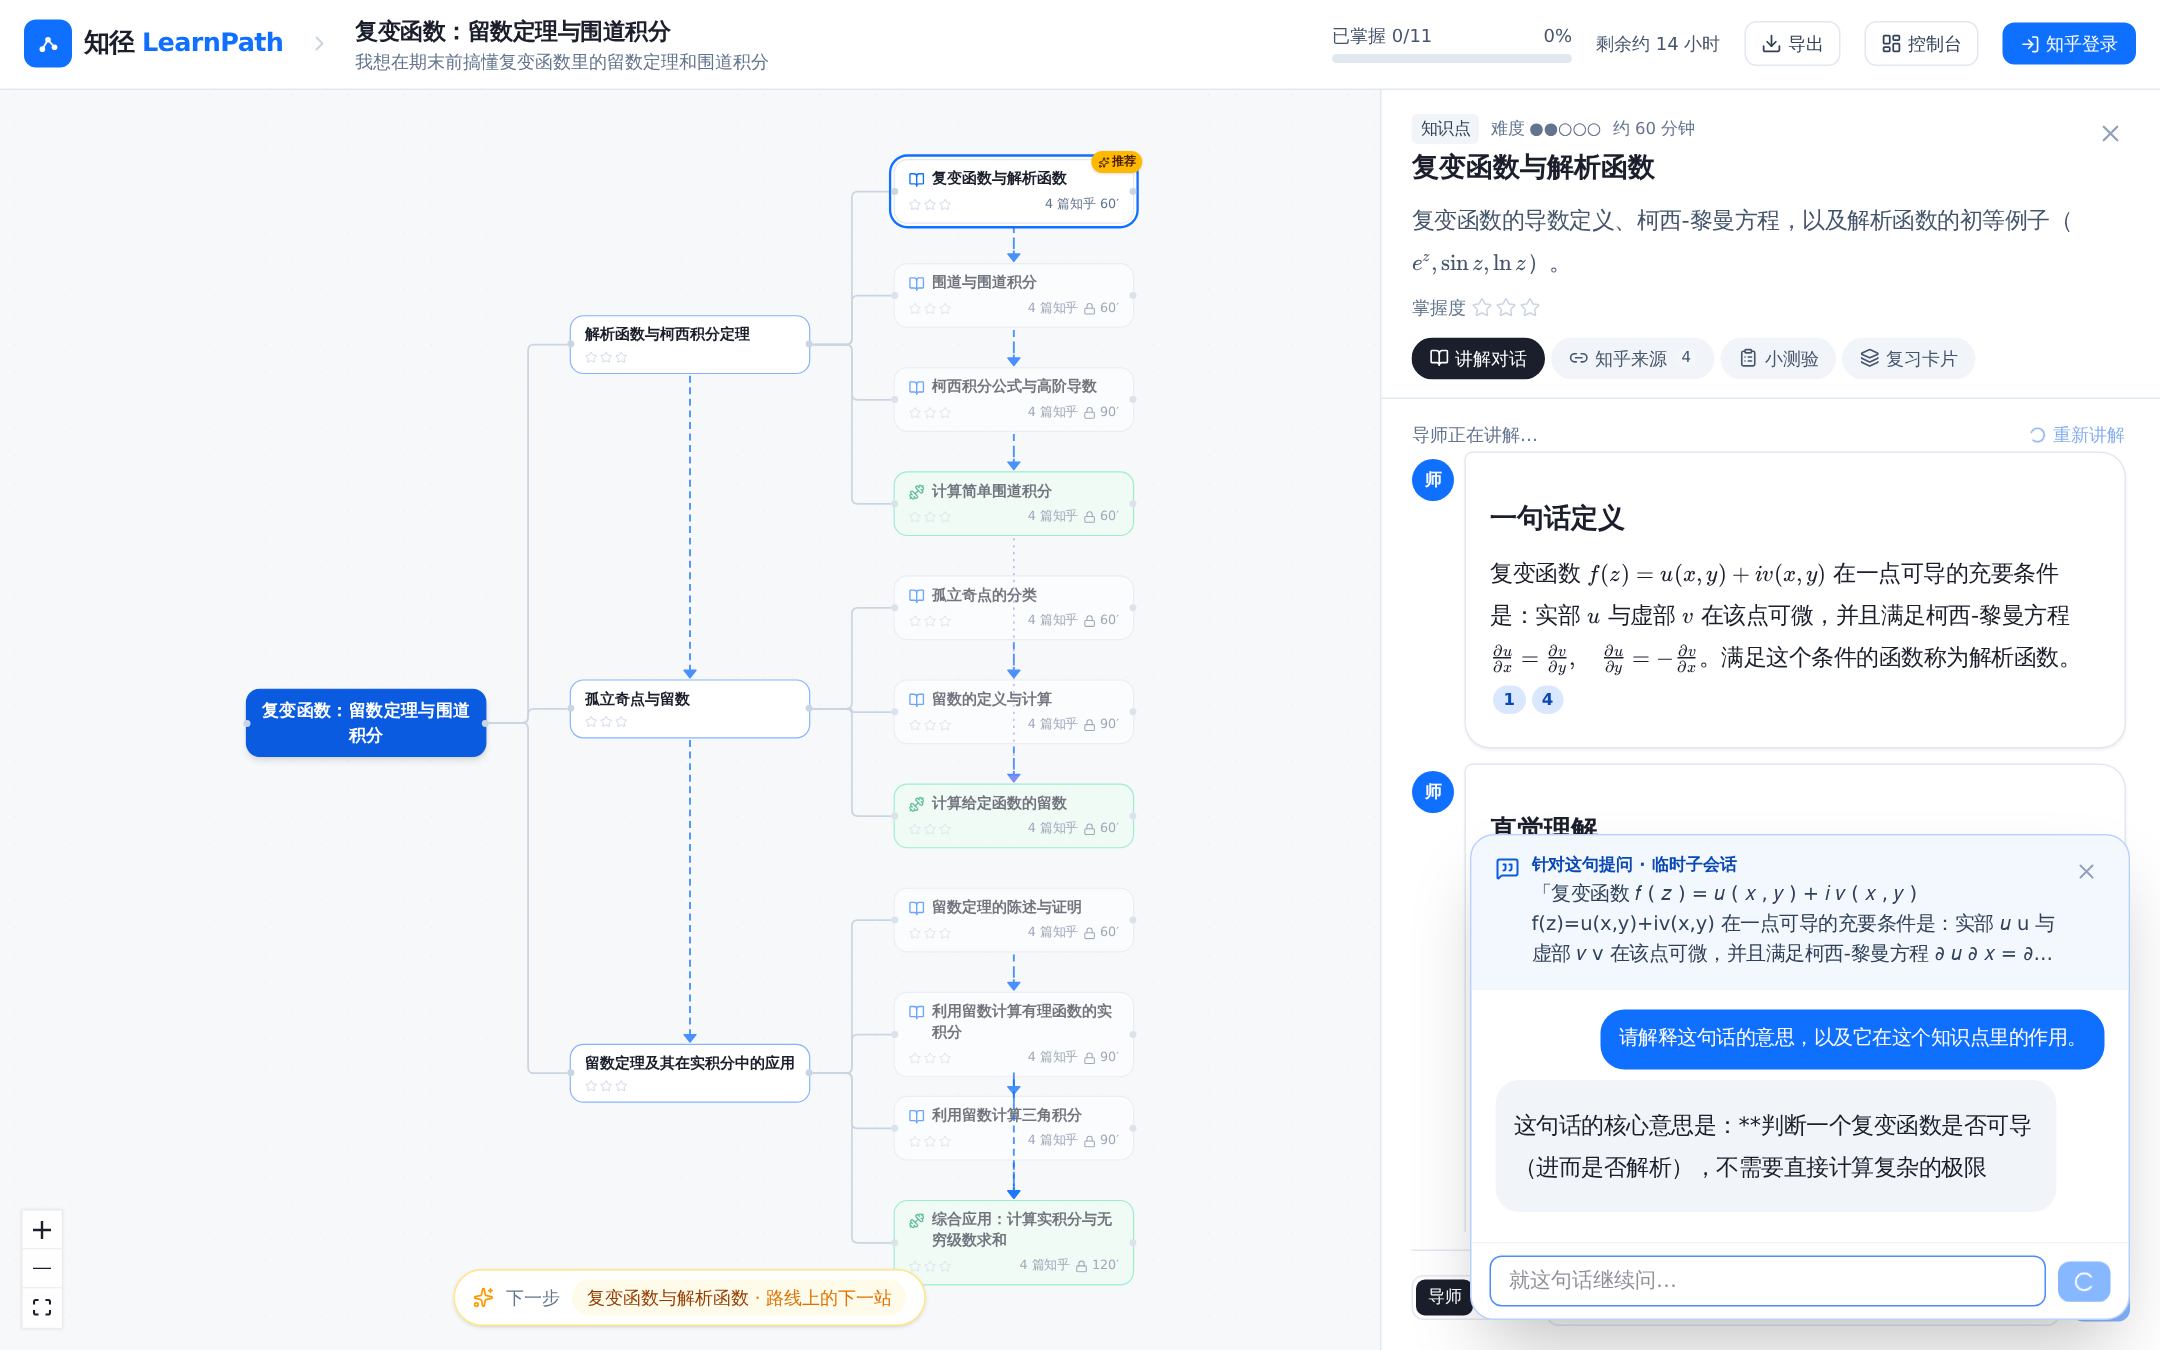
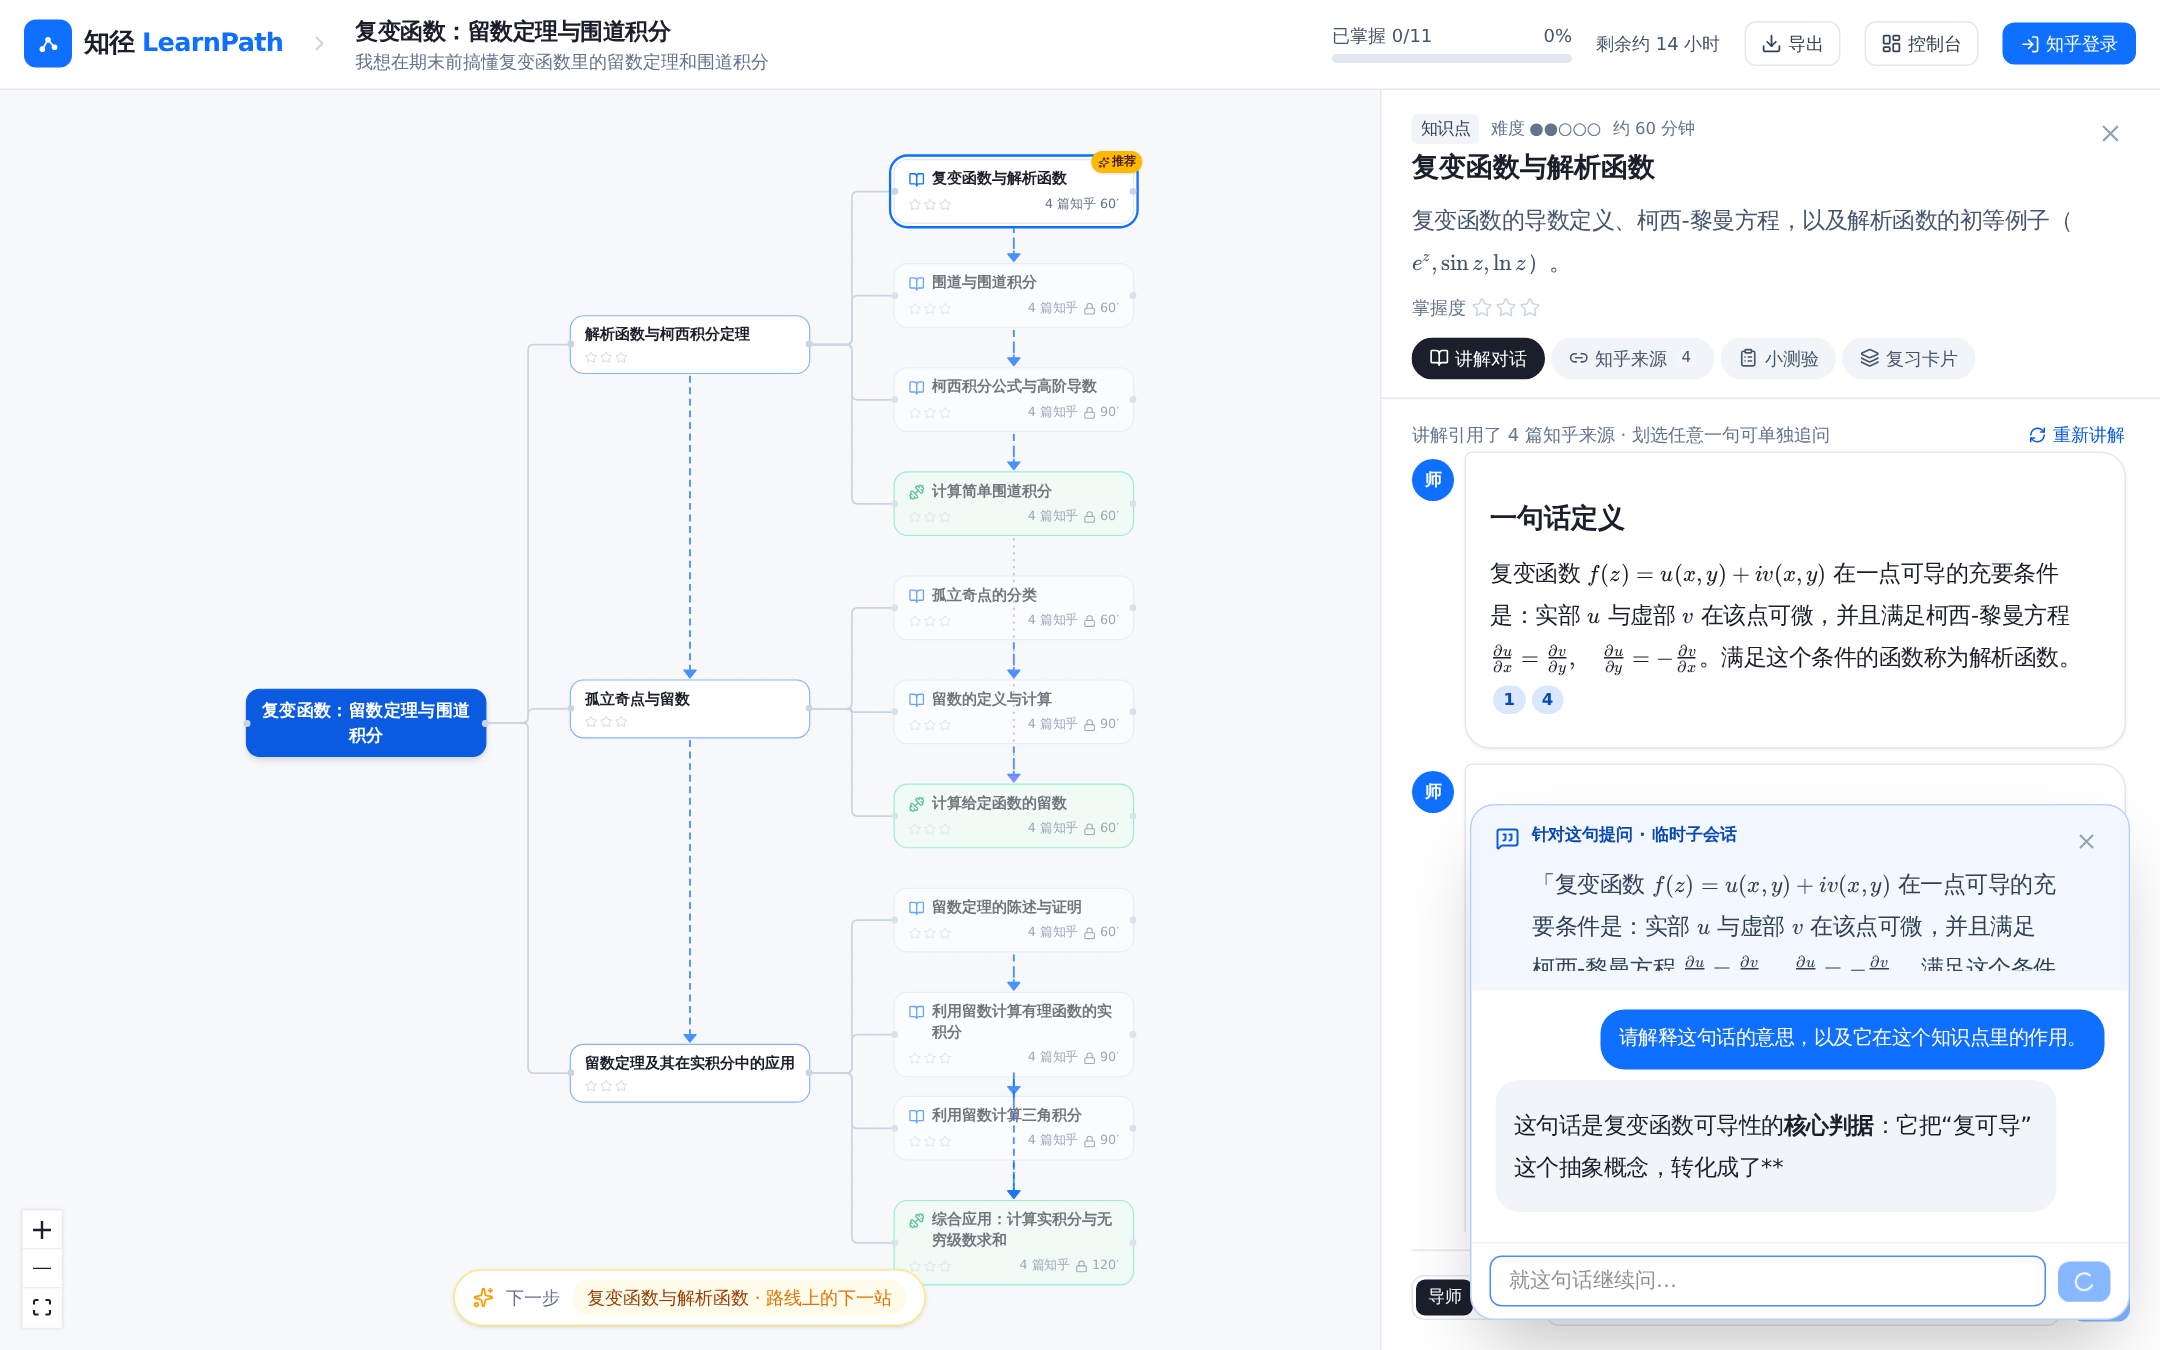
划选引用：从 KaTeX 还原 TeX 源码，避免公式重复；子会话引用句公式渲染

diff --git a/frontend/src/components/panel/ConversationTab.tsx b/frontend/src/components/panel/ConversationTab.tsx
@@ -18,6 +18,18 @@ interface SelectionState {
   y: number;
 }
 
+/** Turn a DOM selection into clean text: KaTeX renders MathML + HTML twice, so replace each formula with its TeX source. */
+function selectionToText(range: Range): string {
+  const fragment = range.cloneContents();
+  fragment.querySelectorAll(".katex-display, .katex").forEach((el) => {
+    if (el.parentElement?.closest(".katex")) return; // nested: handled by the outer element
+    const tex = el.querySelector('annotation[encoding="application/x-tex"]')?.textContent?.trim() ?? "";
+    const display = el.classList.contains("katex-display");
+    el.replaceWith(document.createTextNode(tex ? (display ? ` $$${tex}$$ ` : ` $${tex}$ `) : ""));
+  });
+  return (fragment.textContent ?? "").replace(/\s+/g, " ").trim();
+}
+
 /**
  * 讲解 = 对话：导师分段发言（流式），学习者在同一线程继续追问；划选任意一句可弹出「解释这句 / 提问」，
  * 在叠加的悬浮窗里开一个临时子会话（独立线程，不跳转）。
@@ -107,8 +119,12 @@ export function ConversationTab({ node, onLearned }: { node: NodeDetail; onLearn
   const onMouseUp = useCallback(() => {
     window.setTimeout(() => {
       const sel = window.getSelection();
-      const text = sel?.toString().replace(/\s+/g, " ").trim() ?? "";
-      if (!sel || sel.isCollapsed || text.length < 4 || !containerRef.current || !containerRef.current.contains(sel.anchorNode)) {
+      if (!sel || sel.isCollapsed || sel.rangeCount === 0 || !containerRef.current || !containerRef.current.contains(sel.anchorNode)) {
+        setSelection(null);
+        return;
+      }
+      const text = selectionToText(sel.getRangeAt(0));
+      if (text.length < 4) {
         setSelection(null);
         return;
       }

diff --git a/frontend/src/components/panel/SubChatOverlay.tsx b/frontend/src/components/panel/SubChatOverlay.tsx
@@ -31,7 +31,9 @@ export function SubChatOverlay({ nodeId, threadId, quote, citations, autoAsk, on
         <MessageSquareQuote size={16} className="mt-0.5 shrink-0 text-brand-600" />
         <div className="min-w-0 flex-1">
           <div className="text-[11px] font-semibold uppercase tracking-wide text-brand-700">针对这句提问 · 临时子会话</div>
-          <div className="mt-0.5 line-clamp-3 text-[13px] leading-5 text-slate-700">「{quote}」</div>
+          <div className="mt-0.5 max-h-20 overflow-y-auto text-[13px] leading-5 text-slate-700 [&_p]:my-0 [&_p]:text-[13px]">
+            <Markdown text={`「${quote}」`} citations={citations} />
+          </div>
         </div>
         <button onClick={onClose} className="rounded-md p-1 text-slate-400 hover:bg-white hover:text-slate-700" aria-label="关闭">
           <X size={16} />
